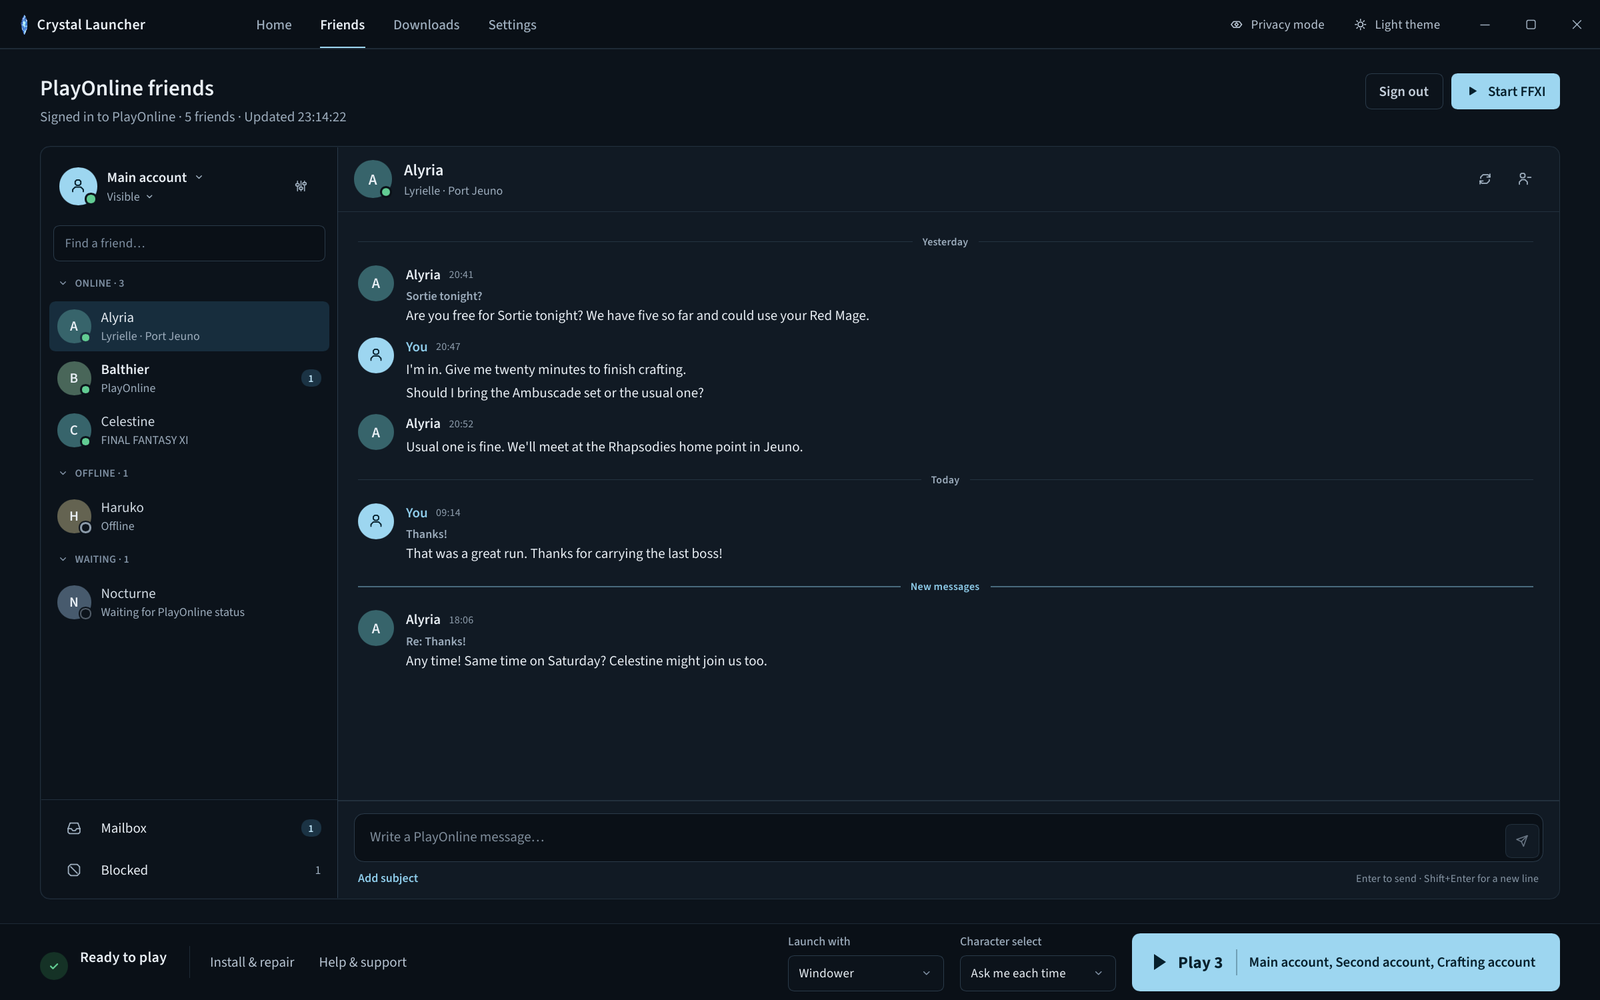
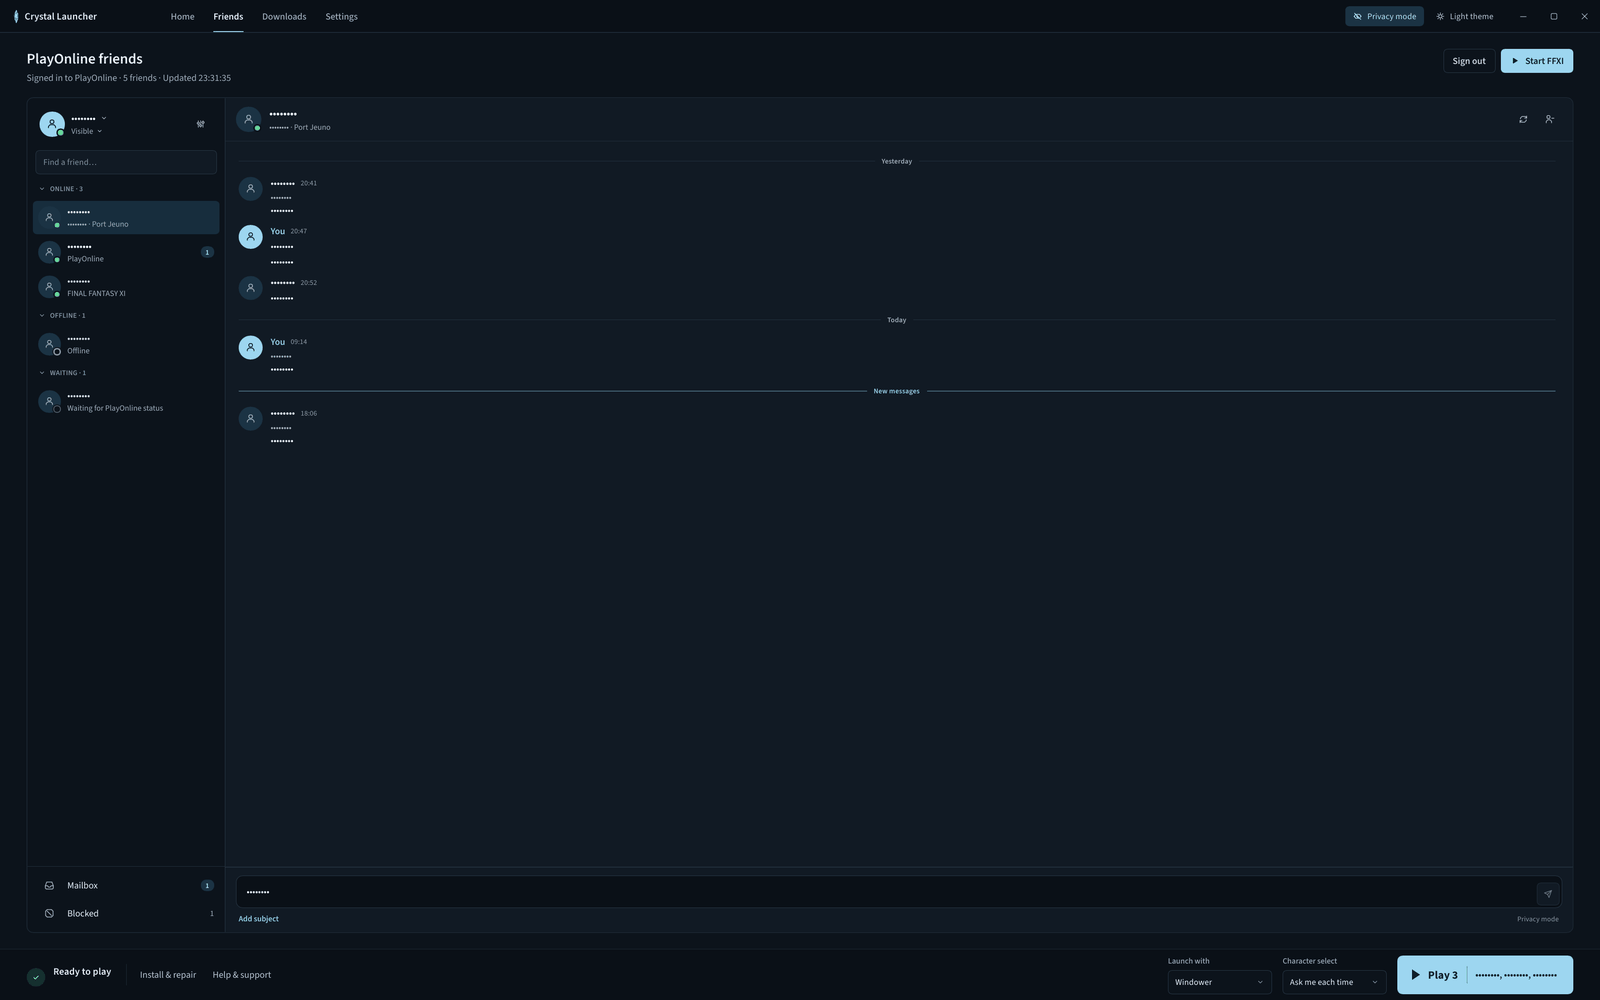
README: Friends screenshot in privacy mode

diff --git a/README.md b/README.md
@@ -77,10 +77,10 @@ Crystal remembers a window for every account, puts it back at launch, and **Arra
 
 ## Friends, status and mail without opening PlayOnline
 
-See who is online, keep a conversation going with unread badges, and read your PlayOnline mailbox from the same window you launch from.
+See who is online, keep a conversation going with unread badges, and read your PlayOnline mailbox from the same window you launch from. Privacy mode (shown here) masks names and messages for streams and screenshots.
 
 <p align="center">
-  <img src="docs/screenshots/friends.png" alt="PlayOnline Friends with three sample friends online, one offline, one waiting, and an open conversation" width="900">
+  <img src="docs/screenshots/friends.png" alt="PlayOnline Friends in privacy mode: names and messages masked" width="900">
 </p>
 
 ## Updates you can trust
